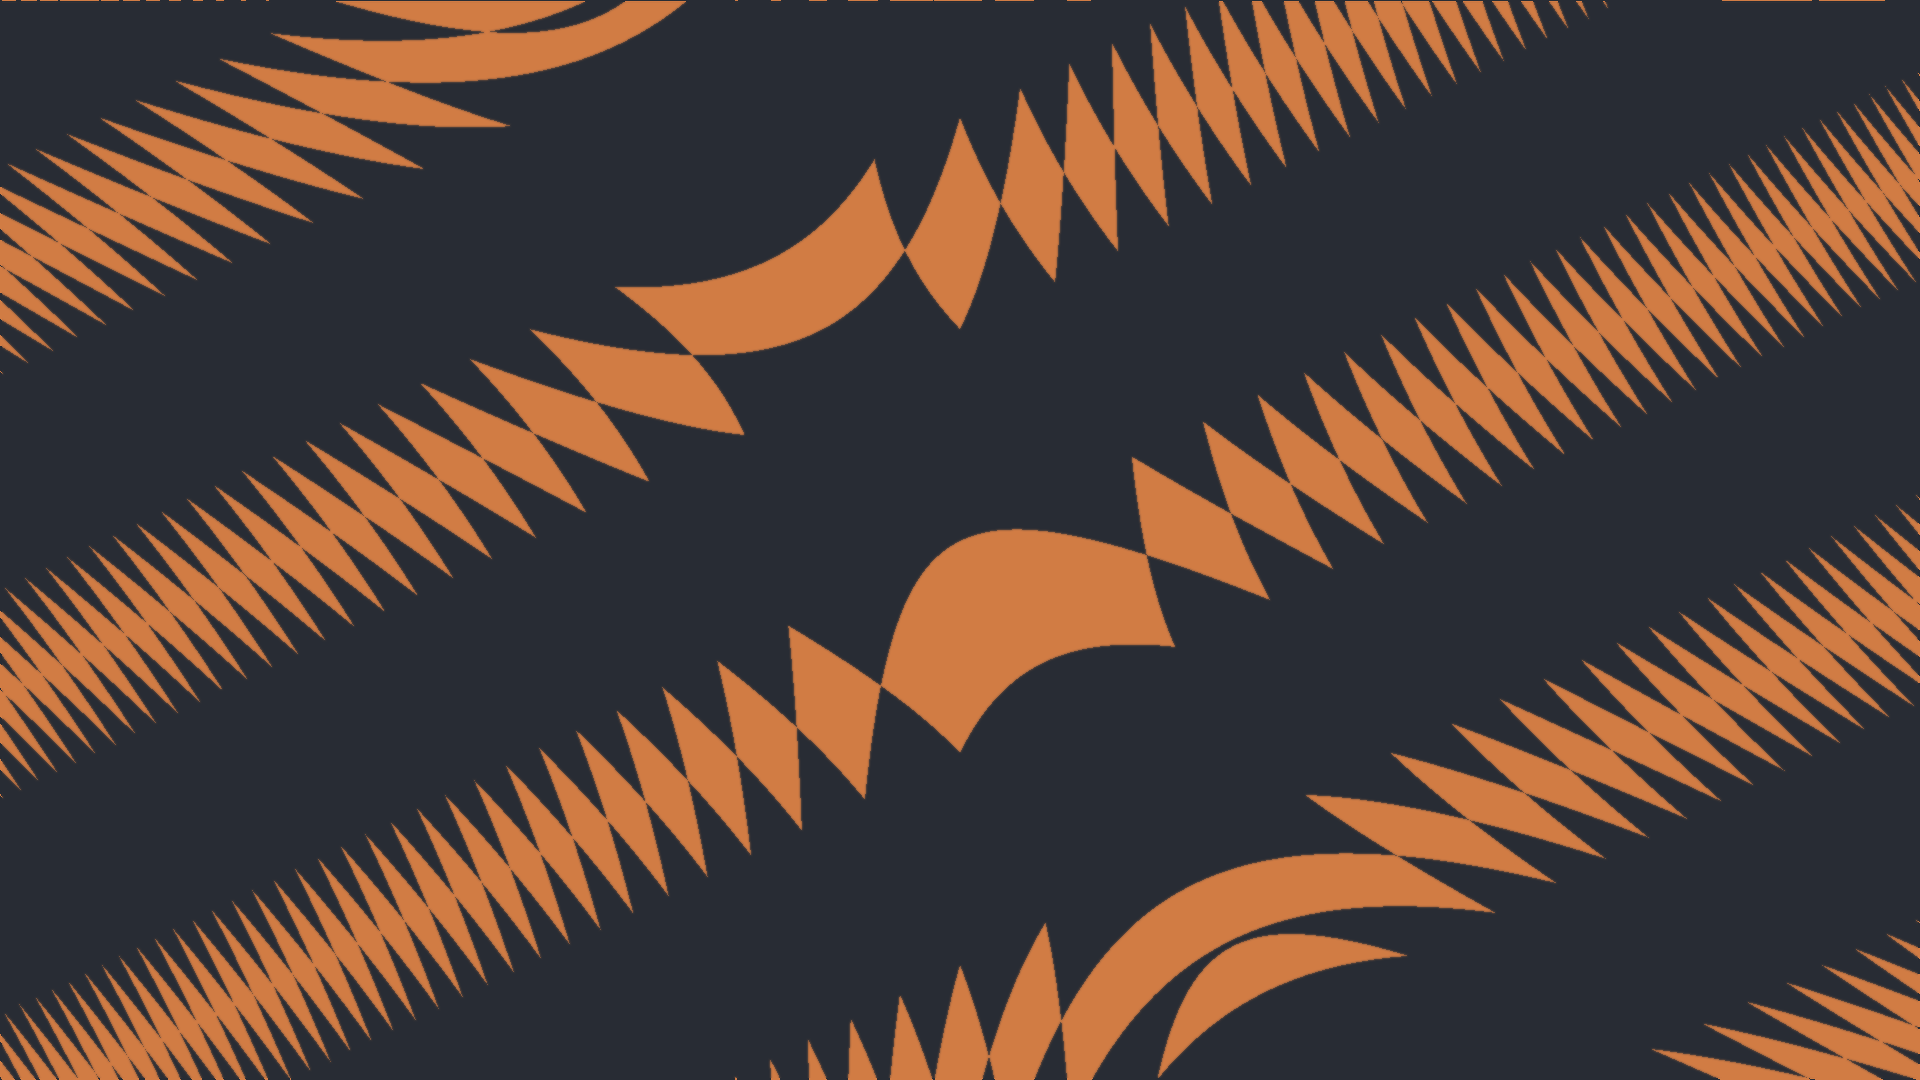
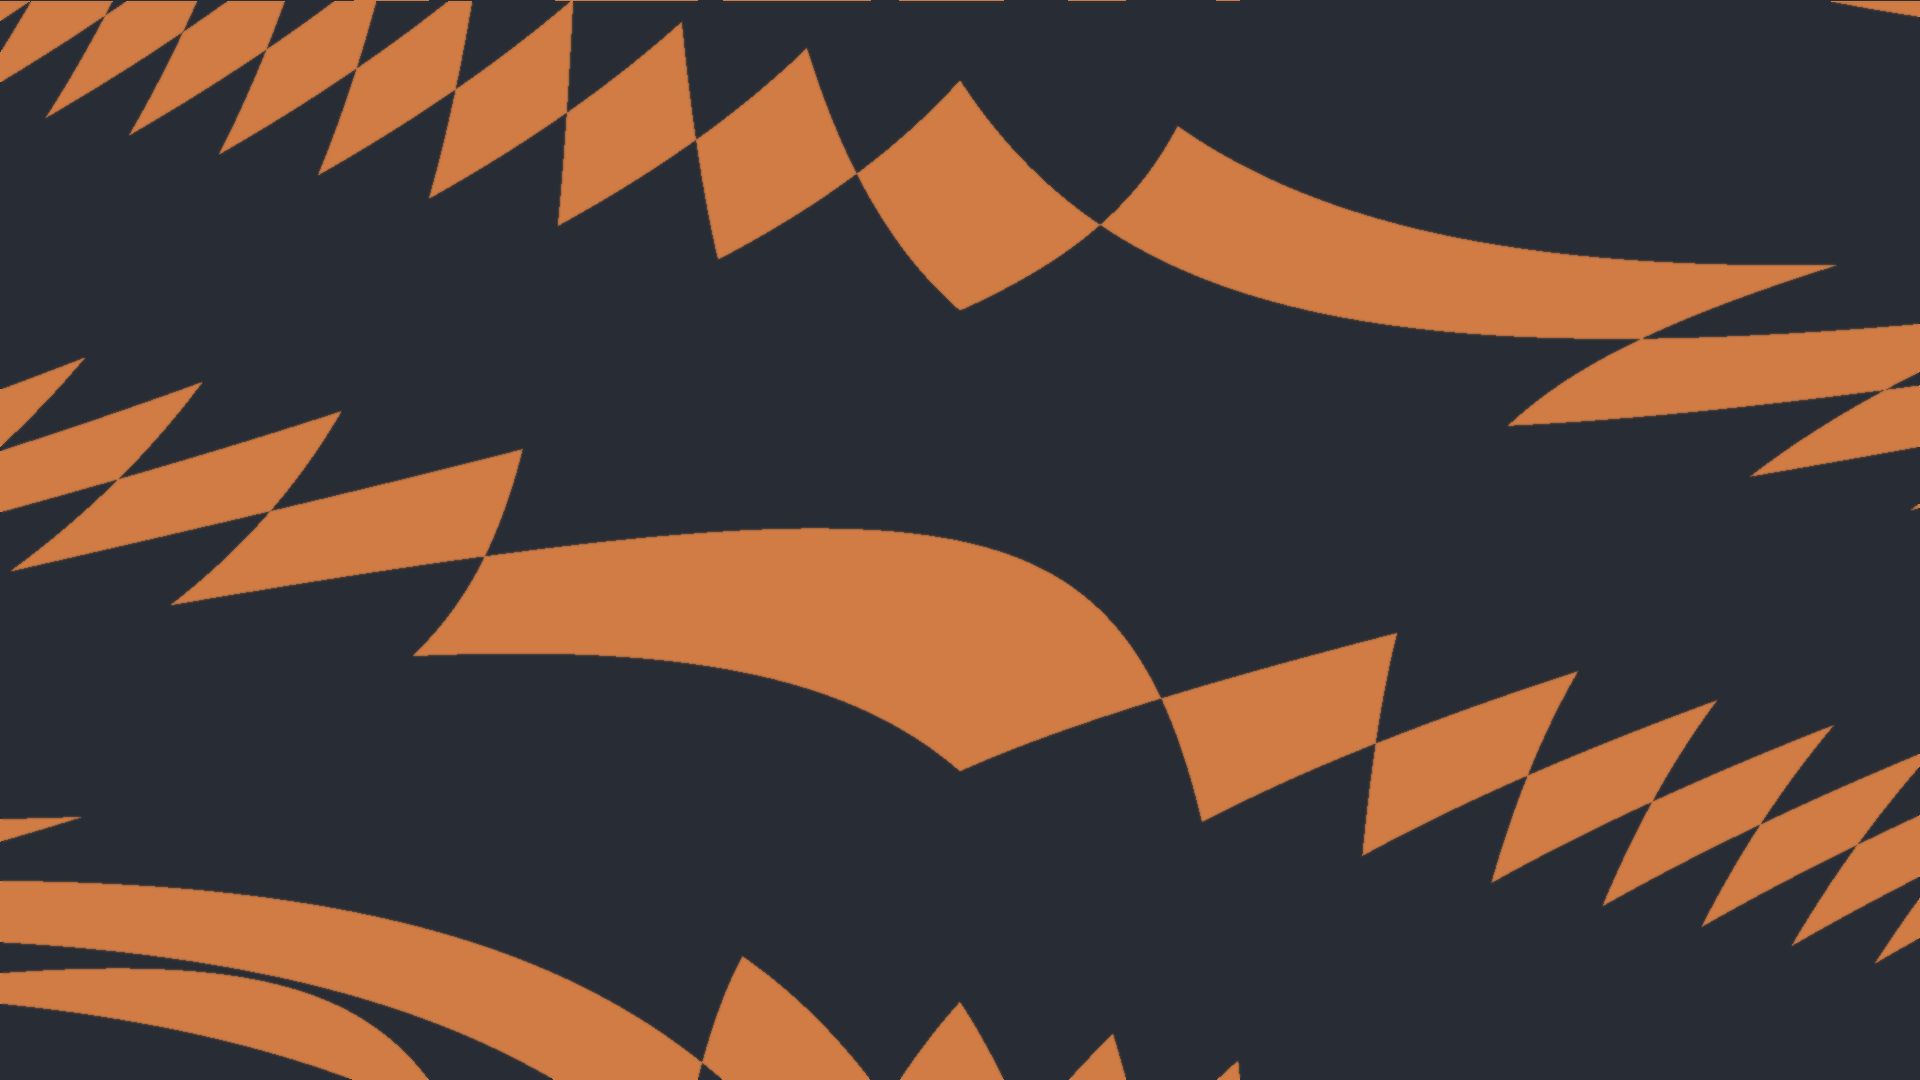
k

diff --git a/styles/randomParticle.py b/styles/randomParticle.py
@@ -1,0 +1,31 @@
+from numpy import cos, sin, linspace,pi
+
+import random
+
+def style(size, colors, pixels):
+    number_of_waves = random.randint(1,5)
+    waves = []
+    for i in range(number_of_waves):
+        wave_properties = { 'a':random.uniform(.1,2),
+                            'b':random.uniform(-2,2),
+                            'c':random.uniform(-1,1),
+                            'd': random.uniform(-4,4)
+                             }# x coord, y coord, radius
+        waves.append(wave_properties)
+
+    x = linspace(-7,7,size[0])
+    y = linspace(-4,4,size[1])
+
+    values = []
+    for wave in waves:
+        for i in range(len(x)):
+            for j in range(len(y)):
+                theta = random.uniform(0, pi)
+                if abs(wave['a']*sin(wave['b']*x[i]*cos(theta)-wave['c'])+wave['d']-y[j]*sin(theta))<0.05:
+                    values.append([i,j])
+
+    for i in range(len(values)):
+        pixels[values[i][0], -values[i][1]]=colors[1]
+
+    return pixels
+

diff --git a/styles/heart.py b/styles/heart.py
@@ -1,13 +1,16 @@
 from numpy import linspace
+import random
 
 def style(size, colors, pixels):
     x = linspace(-7,7,size[0])
     y = linspace(-4,4,size[1])
+    x0= random.randint(size[0]/5,size[0]*4/5)
+    y0= random.randint(size[1]/5,size[1]*4/5)
     values = []
     for i in range(len(x)):
         for j in range(len(y)):
-            if (x[i]**2 + y[j]**2 -1)**3 -x[i]**2 * y[j] **3 < 0.00000001:
-                values.append([i,j])
+            if ((x[i]**2) + (y[j])**2 -1)**3 -(x[i])**2 * (y[j]) **3 < 0.00000001:
+                values.append([i-x0,j-y0])
 
     for i in range(len(values)):
         pixels[values[i][0], -values[i][1]]=colors[1]

diff --git a/styles/wonkylines.py b/styles/wonkylines.py
@@ -1,12 +1,14 @@
-from numpy import linspace, sin
+from numpy import linspace, sin, cos,pi
+import random
 
 def style(size, colors, pixels):
     x = linspace(-7,7,size[0])
     y = linspace(-4,4,size[1])
+    theta = random.uniform(0,pi)
     values = []
     for i in range(len(x)):
         for j in range(len(y)):
-            if abs(sin(x[i]**2+2*x[i]*y[j]))-sin(x[i]-2*y[j])< 0.00001:
+            if abs(sin((x[i]*cos(theta))**2+2*(x[i]*cos(theta))*(y[j]*sin(theta))))-sin((x[i]*cos(theta))-2*(y[j]*sin(theta)))< 0.00001:
                 values.append([i,j])
 
     for i in range(len(values)):

diff --git a/styles/lines.py b/styles/lines.py
@@ -24,7 +24,7 @@ def style(size, colors, pixels):
     for triangle in triangles:
         for i in range(len(x)):
             for j in range(len(y)):
-                if abs((triangle['b']['y']-triangle['c']['y'])/(triangle['b']['x']-triangle['c']['x'])*(x[i]-triangle['c']['x'])-(y[j]-triangle['c']['y']))<0.01:
+                if abs((triangle['b']['y']-triangle['c']['y'])/(triangle['b']['x']-triangle['c']['x'])*(x[i]-triangle['c']['x'])-(y[j]-triangle['c']['y']))<0.05:
                     values.append([i,j])
 
     for i in range(len(values)):

diff --git a/interface.py b/interface.py
@@ -27,6 +27,9 @@ def set_style(x):
     elif x == 'puddle':
         from styles import puddle
         style = puddle.style
+    elif x == 'randomParticle':
+        from styles import randomParticle
+        style = randomParticle.style
     print('style:', x)
 
 def set_size(x):
